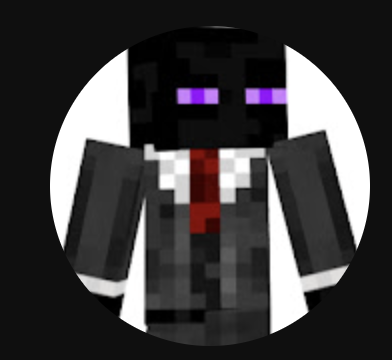
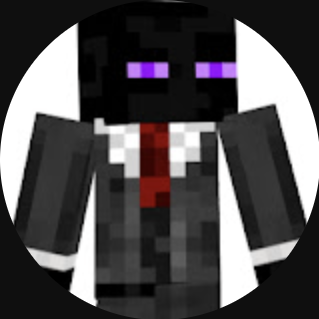
Mobile bugs fixed

diff --git a/index.html b/index.html
@@ -107,13 +107,7 @@
         <img
           src="assets/img/avatar.png"
           alt="Advait's avatar"
-          style="
-            width: 90px;
-            height: 90px;
-            border-radius: 50%;
-            display: block;
-            margin-bottom: 10px;
-          "
+          class="header-avatar"
         />
         <h1><a href="index.html">Advait Mannepalli</a></h1>
         <h2 style="color: #fff">
@@ -328,8 +322,9 @@
                 src="assets/img/education/ut-longhorn.png"
                 alt="University of Texas at Austin logo"
                 style="
-                  width: 340px;
-                  height: 191px;
+                  width: 100%;
+                  max-width: 340px;
+                  aspect-ratio: 340 / 191;
                   object-fit: contain;
                   object-position: left center;
                 "
@@ -360,7 +355,12 @@
               <img
                 src="assets/img/education/HHS.png"
                 alt="Hendrickson High School logo"
-                style="width: 240px; height: 240px; object-fit: contain"
+                style="
+                  width: 100%;
+                  max-width: 240px;
+                  aspect-ratio: 1 / 1;
+                  object-fit: contain;
+                "
               />
               <p style="text-align: left; color: #fff; padding: 10px 0 0">
                 <em>Hendrickson High School</em>

diff --git a/assets/css/style.css b/assets/css/style.css
@@ -94,6 +94,15 @@ h1, h2, h3, h4, h5, h6 {
   margin: 0;
 }
 
+#header .header-avatar {
+  width: 90px;
+  height: 90px;
+  border-radius: 50%;
+  display: block;
+  margin: 0 0 10px 0;
+  object-fit: cover;
+}
+
 #header .social-links {
   margin-top: 40px;
   display: flex;
@@ -279,7 +288,7 @@ h1, h2, h3, h4, h5, h6 {
   background: #09203a;
 }
 
-#header.header-top .social-links, #header.header-top h2 {
+#header.header-top .social-links, #header.header-top h2, #header.header-top .header-avatar {
   display: none;
 }
 
@@ -344,7 +353,7 @@ section .container {
   font-size: 14px;
   font-weight: 500;
   padding: 0;
-  line-height: 1px;
+  line-height: 1.4;
   margin: 0 0 20px 0;
   letter-spacing: 2px;
   text-transform: uppercase;
